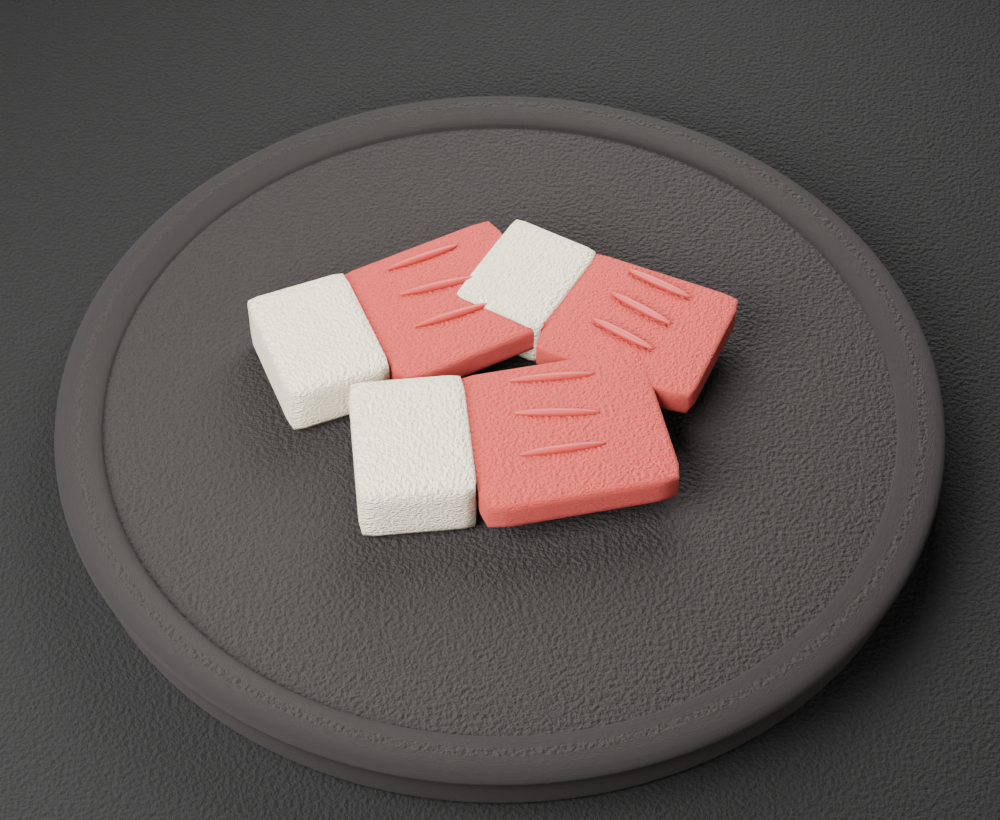
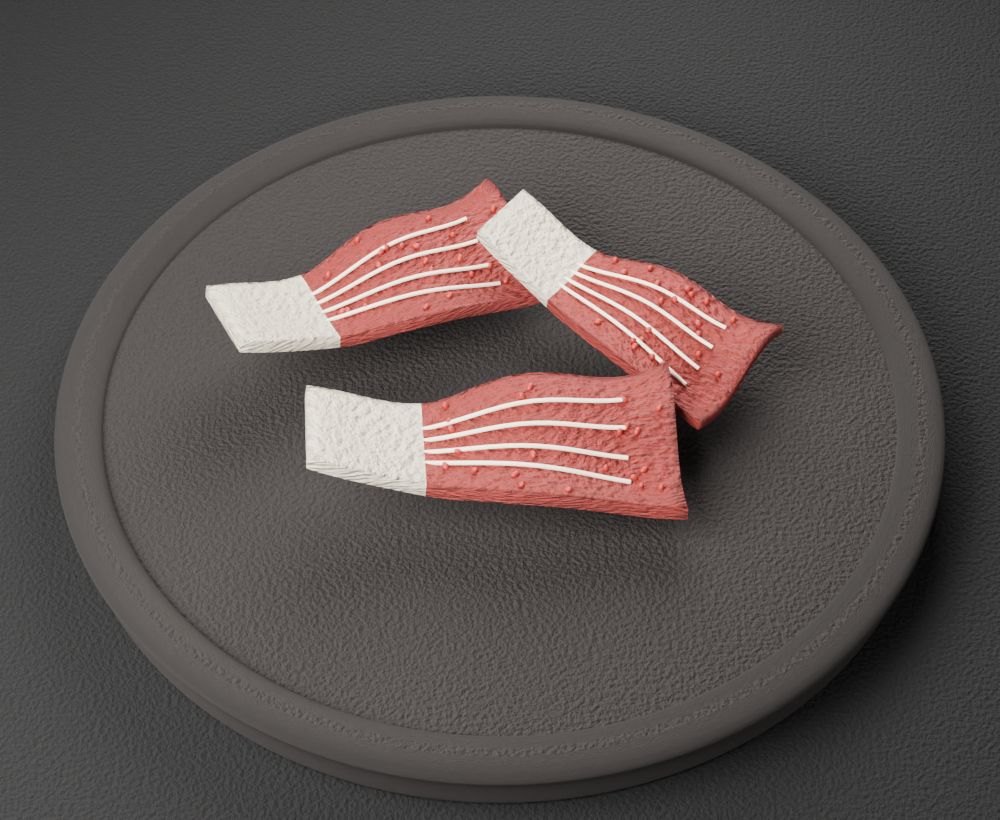
fix: 김치 여섯 판 — 「천 조각」의 진짜 원인은 색이 아니라 «평평함»이었다 (유호 08-22 「더 다듬어줘」)
두 번의 실패가 같은 오해에서 나왔다. 김치를 계속 «색 문제»로 보고 있었다.

· 1판 — 흰 줄기를 붉은 잎 «밑»에 깔았다. 내려보기 40°에서 통째로 가려 한 색이 됐다.
· 2판 — 켜를 끝과 끝으로 갈랐다. 두 색은 보였는데 여전히 「천 조각」이었다(유호 판정).
· 3판 — **진짜 원인을 찾았다: 판이 평평했다.** 배춧잎을 배춧잎으로 만드는 것은 색이 아니라
  **주름**이다. 평평한 사각은 색을 아무리 맞춰도 잎이 안 된다 — 잎은 «펴지지 않는 것»이라서다.
  ⇒ 격자 메시에 주름을 넣고(잎끝으로 갈수록 크게) 잎끝으로 갈수록 넓혔다.
· 4판 — 잎맥을 낱땀으로 놓았더니 **고르게 박힌 점선**이 되어 오히려 「바느질한 천」으로 읽혔다.
  ⇒ 이어진 실(곡선)로 바꿨다. 끊기면 안 되는 실은 곡선으로 뽑는다(실가닥 주석의 그 규칙).
· 5판 — 흰 줄기를 따로 놓은 덩이로 붙였더니 **「각설탕」**이었다. 크리스를 0.98 까지 올려도 각졌고,
  게다가 그 덩이가 잎의 흰 부분을 통째로 덮어 재질 가르기가 아무 일도 안 하고 있었다.
  ⇒ 덩이를 걷고 **한 메시에 재질 둘**을 걸어 면을 길이로 갈랐다. 두께는 잎 자체를 밑동에서
    부풀려 냈다. 하나의 잎이 밑동에서 두껍고 희며 끝으로 갈수록 얇고 붉어진다 — 그게 배추다.
· 6판 — **고춧가루 알갱이**를 얹었다. 주름도 잎맥도 「배춧잎」까지만 말하고,
  「양념에 버무렸다」는 알갱이가 말한다. 흰 줄기에는 안 뿌린다(두 색 대비가 다시 무너진다).

곁들여 잎 가장자리를 흔들었다 — 자른 배추는 반듯하지 않다.

요소 시안 지면(117장)과 음식 17종 대조판을 다시 냈다.

Session-Id: local_7f333ae2-2b96-4c2d-8162-34cea81fcb8e

Changed region(s): [[0.186, 0.2134, 0.806, 0.6707]]

diff --git a/docs/요소_시안.html b/docs/요소_시안.html
@@ -915,7 +915,7 @@
 <h2 id="s7" class="듦"><span class="번호">07</span>
       <span>음식 — 17장</span></h2><p class="듦">플레이팅 갈래 <b>17종</b> — 학생이 «먼저 배우는 낱말» 순으로 골랐다. 셋(만두·김밥·붕어빵)에서 두 번 늘렸다:</p><p class="듦">1차(유호 「음식이 조금 더 많이」) 여섯 — 떡볶이·호떡·라면·김치·딸기·바나나우유. <b>마시는 것 하나</b>를 넣은 까닭은 먹는 것만 열이면 목록이 한 결로 눕기 때문이다.</p><p class="듦">2차(유호 「삼겹살같은 한식도 퀄리티있게 다양하게」) 여덟 — 삼겹살·불고기(구이) · 비빔밥(밥) · 치킨(튀김) · 잡채(면) · 파전(전) · 김치찌개(찌개) · 송편(떡). <b>끼니 역할이 안 겹치게</b> 골랐다.</p><p class="듦">🔑 이 갈래에서 세 번 같은 실패를 했다 — <b>작은 덩이에 털을 심으면 실루엣이 죽는다</b>(어묵·김치·치킨·송편). 바삭함·쫀득함은 털이 아니라 «잔 범프»가 낸다.</p>
[6 lines of base64/hex data omitted]

diff --git a/tools/요소굽기.py b/tools/요소굽기.py
@@ -1915,34 +1915,92 @@ def 라면():
 
 def 김치():
     """펠트 김치 — 플레이팅 9호. 한국 음식의 **이름표**라 없으면 목록이 안 닫힌다.
-    ⚠어려운 형태다: 붉은 뭉치로 뭉개지기 쉽다. 그래서 «포기»를 통째로 안 그리고
-      **자른 조각 셋을 겹쳐** 놓는다 — 잘린 단면의 켜(잎↔줄기)가 김치를 김치로 만든다.
-    줄기(흰 아래)와 잎(붉은 위)의 **두 색 켜**가 이 형태의 전부다."""
+
+    🔴 **세 판 걸렸다. 두 번의 실패가 같은 오해에서 나왔다** — 김치를 «색 문제»로 본 것이다.
+       1판: 흰 줄기를 붉은 잎 «밑»에 깔았다 → 내려보기 40°에서 통째로 가려 한 색이 됐다.
+       2판: 켜를 끝과 끝으로 갈랐다 → 두 색은 보였지만 여전히 **«천 조각»**이었다(유호 판정).
+       ⇒ 진짜 원인: **판이 평평했다.** 배춧잎을 배춧잎으로 만드는 것은 색이 아니라 **주름**이다.
+         평평한 사각은 아무리 색을 맞춰도 잎이 안 된다 — 잎은 «펴지지 않는 것»이기 때문이다.
+
+    3판의 셋: ①격자 메시에 주름을 넣고(잎끝으로 갈수록 크게) ②잎끝으로 갈수록 넓히고
+    ③잎맥을 그 **주름 위에** 앉힌다(같은 식으로 높이를 구해 표면을 따라간다).
+    ⚠주름 없는 잎맥은 판을 가로지르는 «줄무늬»가 된다 — 2판에서 실제로 그렇게 읽혔다."""
     음식접시('Ink')
     손 = random.Random(20260822)
-    잎재 = 직물결(매끈재질('김치잎', 색['Coral 3'], 거칠기=0.70), 지름=0.9, 세기=0.6)
-    줄기재 = 직물결(매끈재질('김치줄기', 색['Stitch'], 거칠기=0.76), 지름=0.5, 세기=0.7)
-    # 🔴**1판은 «분홍 천 조각»이었다.** 켜를 «위아래»로 쌓았더니 내려보기(40°)에서 흰 줄기가
-    #   붉은 잎에 통째로 가려 두 색이 하나가 됐다. 김치를 김치로 만드는 것은 두 색의 «대비»인데
-    #   그 대비가 카메라에서 안 보이면 없는 것이다.
-    #   ⇒ 켜를 **끝과 끝**으로 옮긴다: 한쪽 끝은 흰 줄기, 다른 끝은 붉은 잎. 위에서 둘 다 보인다.
-    #   ⚠보풀도 걷었다 — 작은 조각의 짧은 털은 형태를 흐린다(떡볶이 어묵과 같은 배움).
-    for x, y, 각, s in ((-0.40, 0.24, 22, 1.00), (0.34, 0.30, -30, 0.92), (0.00, -0.34, 6, 1.06)):
+    잎재 = 직물결(매끈재질('김치잎', 색['Coral 3'], 거칠기=0.68), 지름=0.45, 세기=0.88)
+    줄기재 = 직물결(매끈재질('김치줄기', 색['Stitch'], 거칠기=0.78), 지름=0.35, 세기=0.72)
+    맥재 = 매끈재질('김치맥', 색['Stitch'], 거칠기=0.60)
+
+    def 주름z(u, w):
+        """잎 표면 높이 — u = 길이(−1 줄기 … +1 잎끝) · w = 폭(−1 … +1).
+        주름은 **잎끝으로 갈수록 커진다** — 줄기 쪽은 두껍고 빳빳해 거의 안 접힌다."""
+        끝 = (u + 1) / 2
+        return (0.095 * math.sin(2.9 * w) * 끝 ** 1.4
+                + 0.050 * math.sin(4.7 * u + 1.1) * 끝
+                + 0.032 * math.cos(3.3 * w + 2.0) * 끝)
+
+    def 폭(u):
+        # 잎끝이 넓고 줄기 쪽이 좁다 + 가장자리를 조금 흔든다(자른 배추는 반듯하지 않다).
+        return 0.46 + 0.54 * (u + 1) / 2 + 0.055 * math.sin(5.5 * u + 0.7)
+
+    for k, (px, py, 각, s) in enumerate(((-0.46, 0.34, 28, 1.00), (0.44, 0.26, -38, 0.90),
+                                         (-0.02, -0.42, 4, 1.06))):
         코, 사 = math.cos(math.radians(각)), math.sin(math.radians(각))
-        # 줄기 — 조각의 «한쪽 끝». 두툼하고 희다.
-        줄 = 베개몸((0.20 * s, 0.26 * s, 0.115 * s),
-                  위치=(x - 0.30 * s * 코, y + 0.06 - 0.30 * s * 사, 0.115), 회전z=각, 크리스=0.62)
-        줄.data.materials.append(줄기재)
-        # 잎 — 반대쪽 끝. 넓고 얇게 퍼진다(잎은 퍼지고 줄기는 뭉친다).
-        잎 = 베개몸((0.34 * s, 0.30 * s, 0.062 * s),
-                  위치=(x + 0.22 * s * 코, y + 0.06 + 0.22 * s * 사, 0.145), 회전z=각 + 6, 크리스=0.82)
-        잎.data.materials.append(잎재)
-        # 잎맥 — 줄기에서 잎끝으로 뻗는 실금 셋. 이것이 있어야 «천 조각»이 아니라 «잎»이다.
-        for i in range(3):
-            ox = (-0.10 + 0.16 * i) * s
-            땀하나(x + 0.20 * s * 코 - ox * 사, y + 0.06 + 0.20 * s * 사 + ox * 코, 0.212,
-                  0.15 * s, 0.017, 매끈재질('맥%d' % i, 색['Coral Rim'], 거칠기=0.55),
-                  회전y=0, 회전z=각 + 손.uniform(-6, 6))
+        길, 너 = 0.62 * s, 0.30 * s
+        밑 = 0.22
+        bpy.ops.mesh.primitive_grid_add(x_subdivisions=26, y_subdivisions=18, size=2.0,
+                                        location=(0, 0, 0))
+        잎 = bpy.context.object
+        for v in 잎.data.vertices:
+            u, w = v.co.x, v.co.y
+            v.co.y = w * 폭(u)
+            # 줄기 쪽이 «도톰»하다 — 배추 밑동은 두껍고 잎끝은 얇다. 따로 덩이를 놓지 않고
+            # 잎 자체를 부풀려 낸다(4판에서 덩이를 놨다가 «각설탕»이 됐다).
+            v.co.z = 주름z(u, w) + (0.16 * max(0.0, (-0.28 - u) / 0.72) ** 1.3 if u < -0.28 else 0.0)
+        잎.scale = (길, 너, s)
+        잎.rotation_euler = (0, 0, math.radians(각))
+        잎.location = (px, py + 0.06, 밑)
+        두께 = 0.055 * s
+        sol = 잎.modifiers.new('sol', 'SOLIDIFY')     # 격자는 두께가 0 이다 — 살을 붙여야 «잎»이 된다
+        sol.thickness = 두께
+        sol.offset = 0
+        bpy.ops.object.shade_smooth()
+        # 🔑 **줄기는 «따로 놓은 흰 덩이»가 아니라 같은 잎의 다른 색이다.**
+        #   3판은 흰 줄기를 네모난 몸으로 옆에 붙였는데 렌더에서 **«각설탕»**으로 읽혔다(실측).
+        #   한 메시에 재질 둘을 걸고 면을 길이로 가르면, 색 경계가 «주름을 따라» 흘러 붙은 것이 된다.
+        잎.data.materials.append(잎재)      # 0 = 잎(붉음)
+        잎.data.materials.append(줄기재)     # 1 = 줄기(흼)
+        for 면 in 잎.data.polygons:
+            cx = sum(잎.data.vertices[i].co.x for i in 면.vertices) / len(면.vertices)
+            면.material_index = 1 if cx < -0.38 else 0
+        # 🔴**흰 덩이(베개몸)는 걷었다.** 4판에서 크리스를 0.98 까지 올려도 «각설탕»이었고,
+        #   게다가 그 덩이가 잎의 흰 부분을 통째로 덮어 재질 가르기가 아무 일도 안 하고 있었다.
+        #   ⇒ 줄기의 «두께»는 덩이가 아니라 **잎 자체의 부풀림**이 낸다(위 v.co.z 항).
+        #     하나의 잎이 밑동에서 두껍고 희며 끝으로 갈수록 얇고 붉어진다 — 그게 배추다.
+
+        # 잎맥 — **이어진 실**이다. 3판은 낱땀으로 놓았더니 고르게 박힌 점선이 되어
+        #   오히려 «바느질한 천»으로 읽혔다(유호 판정의 그 인상). 끊기면 안 되는 실은 곡선으로 뽑는다.
+        for r in (-0.56, -0.19, 0.19, 0.56):
+            점 = []
+            for i in range(16):
+                u = -0.52 + 1.24 * i / 15      # 흰 줄기 «다음»에서 시작한다(흰 위 흰 실은 안 보인다)
+                w = r * (0.55 + 0.45 * (u + 1) / 2)      # 잎맥도 잎끝으로 갈수록 벌어진다
+                lx, ly = u * 길, w * 폭(u) * 너
+                점.append((px + lx * 코 - ly * 사, py + 0.06 + lx * 사 + ly * 코,
+                           밑 + 주름z(u, w) * s + 두께 * 0.5 + 0.008))
+            실가닥(점, 0.0075 * s, 맥재, '맥%d_%d' % (k, int(r * 100)))
+
+        # 고춧가루 — 잎에 앉은 잔 알갱이. **이 갈래에서 마지막까지 없던 신호가 이것이었다**:
+        #   주름도 잎맥도 «배춧잎»까지만 말하고, 「양념에 버무렸다」는 알갱이가 말한다.
+        #   ⚠흰 줄기에는 안 뿌린다(u > −0.30) — 밑동까지 붉으면 두 색 대비가 다시 무너진다.
+        고재 = 매끈재질('고춧가루%d' % k, 색['Coral Rim'], 거칠기=0.52)
+        for i in range(22):
+            u = 손.uniform(-0.28, 0.92)
+            w = 손.uniform(-0.86, 0.86)
+            lx, ly = u * 길, w * 폭(u) * 너
+            땀하나(px + lx * 코 - ly * 사, py + 0.06 + lx * 사 + ly * 코,
+                  밑 + 주름z(u, w) * s + 두께 * 0.5 + 0.006,
+                  0.016 * s, 0.011, 고재, 회전y=손.uniform(0, 180), 회전z=손.uniform(0, 180))
     return (0, -5.66, 6.74), 40
 
 
